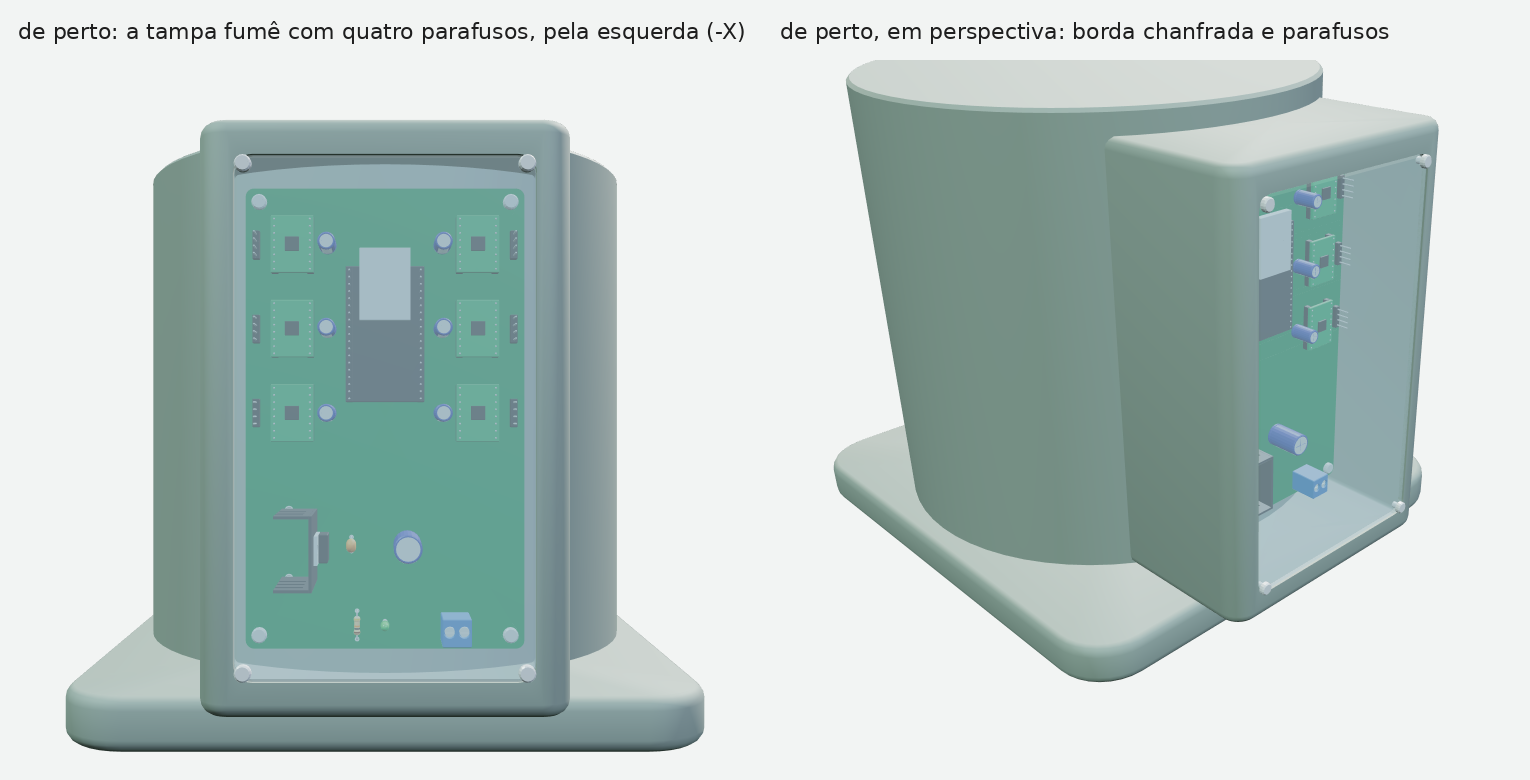
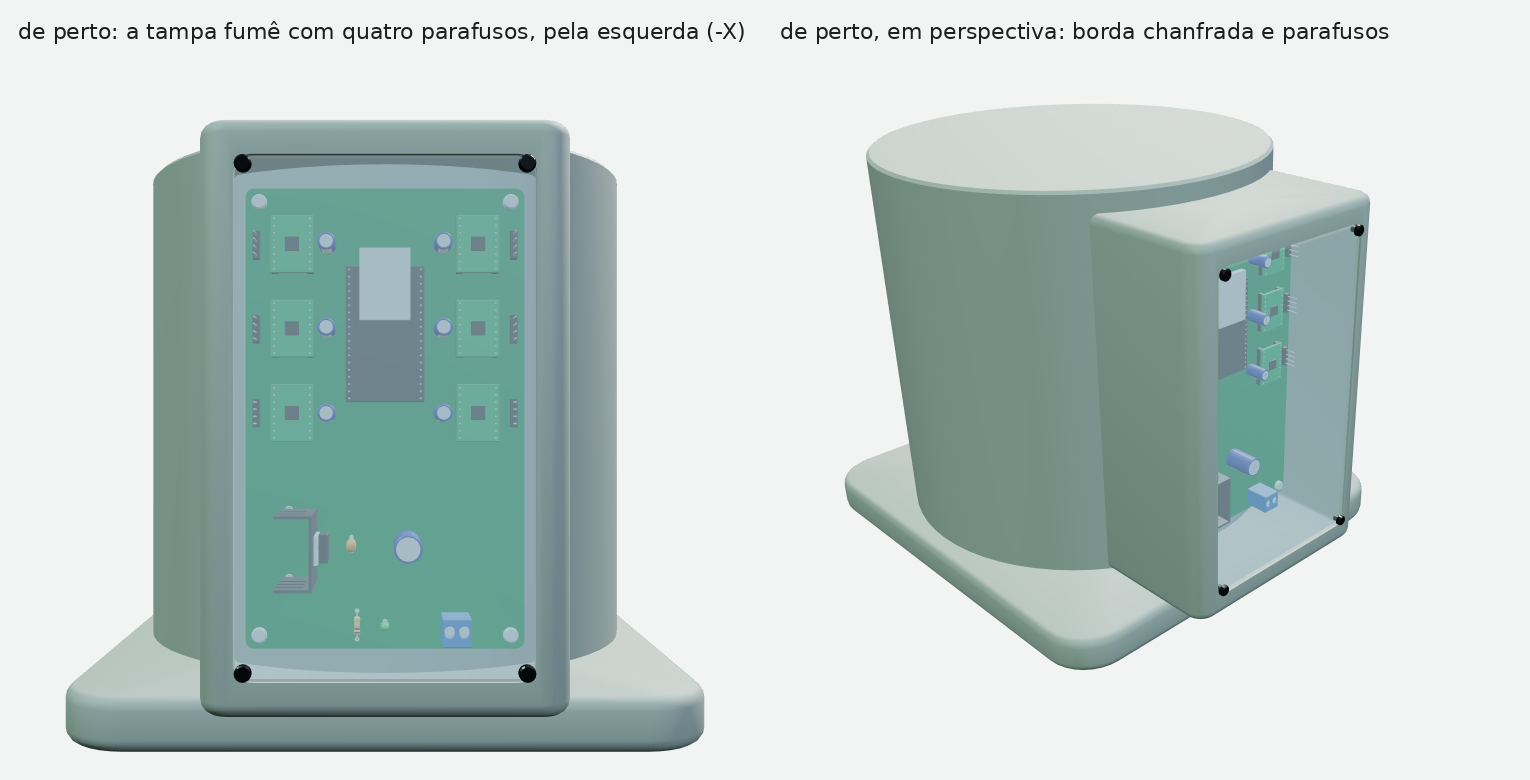
Base do braço: parafusos da tampa em aço escuro
A pessoa pediu os parafusos da tampa em cinza escuro para aparecerem mais.
Passam ao acoEscuro do soquete do farol do furgão, escolhido por peça na
receita, sem paleta nova. Imagem da fatia 4 refeita, com a perspectiva sem
cortar o topo do cilindro.

Claude-Session: https://claude.ai/code/session_015i1y8CrgTgEfwGG2HEX8g8

diff --git a/procedural/pecas/braco-robotico/partes/base/receita.js b/procedural/pecas/braco-robotico/partes/base/receita.js
@@ -264,7 +264,7 @@ export function gerarPassos(t = TABELA) {
     }]);
     passos.push(['lathe', { origemId: ID.hasteDaTampa + k, eixo: 'x', lados: 16, segmentosCurva: 1, perfil: [[0, 0], [raioDaHaste, 0], [raioDaHaste, e], [0, e]], em }]);
     for (const op of [ID.cabecaDaTampa + k, ID.hasteDaTampa + k]) {
-      passos.push(['parte', { nome: 'parafusosDaTampa', material: 'aluminio', pai: 'caixaLateral', sel: { origem: { op: 'lathe', id: op } } }]);
+      passos.push(['parte', { nome: 'parafusosDaTampa', material: 'acoEscuro', pai: 'caixaLateral', sel: { origem: { op: 'lathe', id: op } } }]);
     }
   });
   passos.push(['publicarPorta', {
@@ -323,6 +323,9 @@ const receita = {
     /* a tampa da janela: vidro fumê leve, a pedido da pessoa em 2026-11-17 porque a tampa incolor (opacidade de 0,3) não aparecia. A
        cor é um cinza-azulado claro, o mais próximo da paleta existente: o vidro claro do farol do furgão (`lenteDoFarol` em
        procedural/pecas/furgao-realista/receita.js) escurecido; a opacidade fica em 0,38 para a placa continuar legível. */
+    /* os parafusos da tampa: o aço escuro do soquete do farol do furgão (`acoEscuro` em procedural/pecas/furgao-realista/receita.js), a
+       pedido da pessoa em 2026-11-17, para os parafusos aparecerem contra o vidro fumê */
+    acoEscuro: { tipo: 'metal', acabamento: 'pintado', cor: '#34363b', aspereza: 0.35, metalicidade: 0.85, verniz: 0.5, asperezaDoVerniz: 0.35 },
     vidroFume: { tipo: 'liso', cor: '#8fa3ad', mistura: 'transparente', opacidade: 0.38, aspereza: 0.25, metalicidade: 0 },
   },
   PLANO: {
